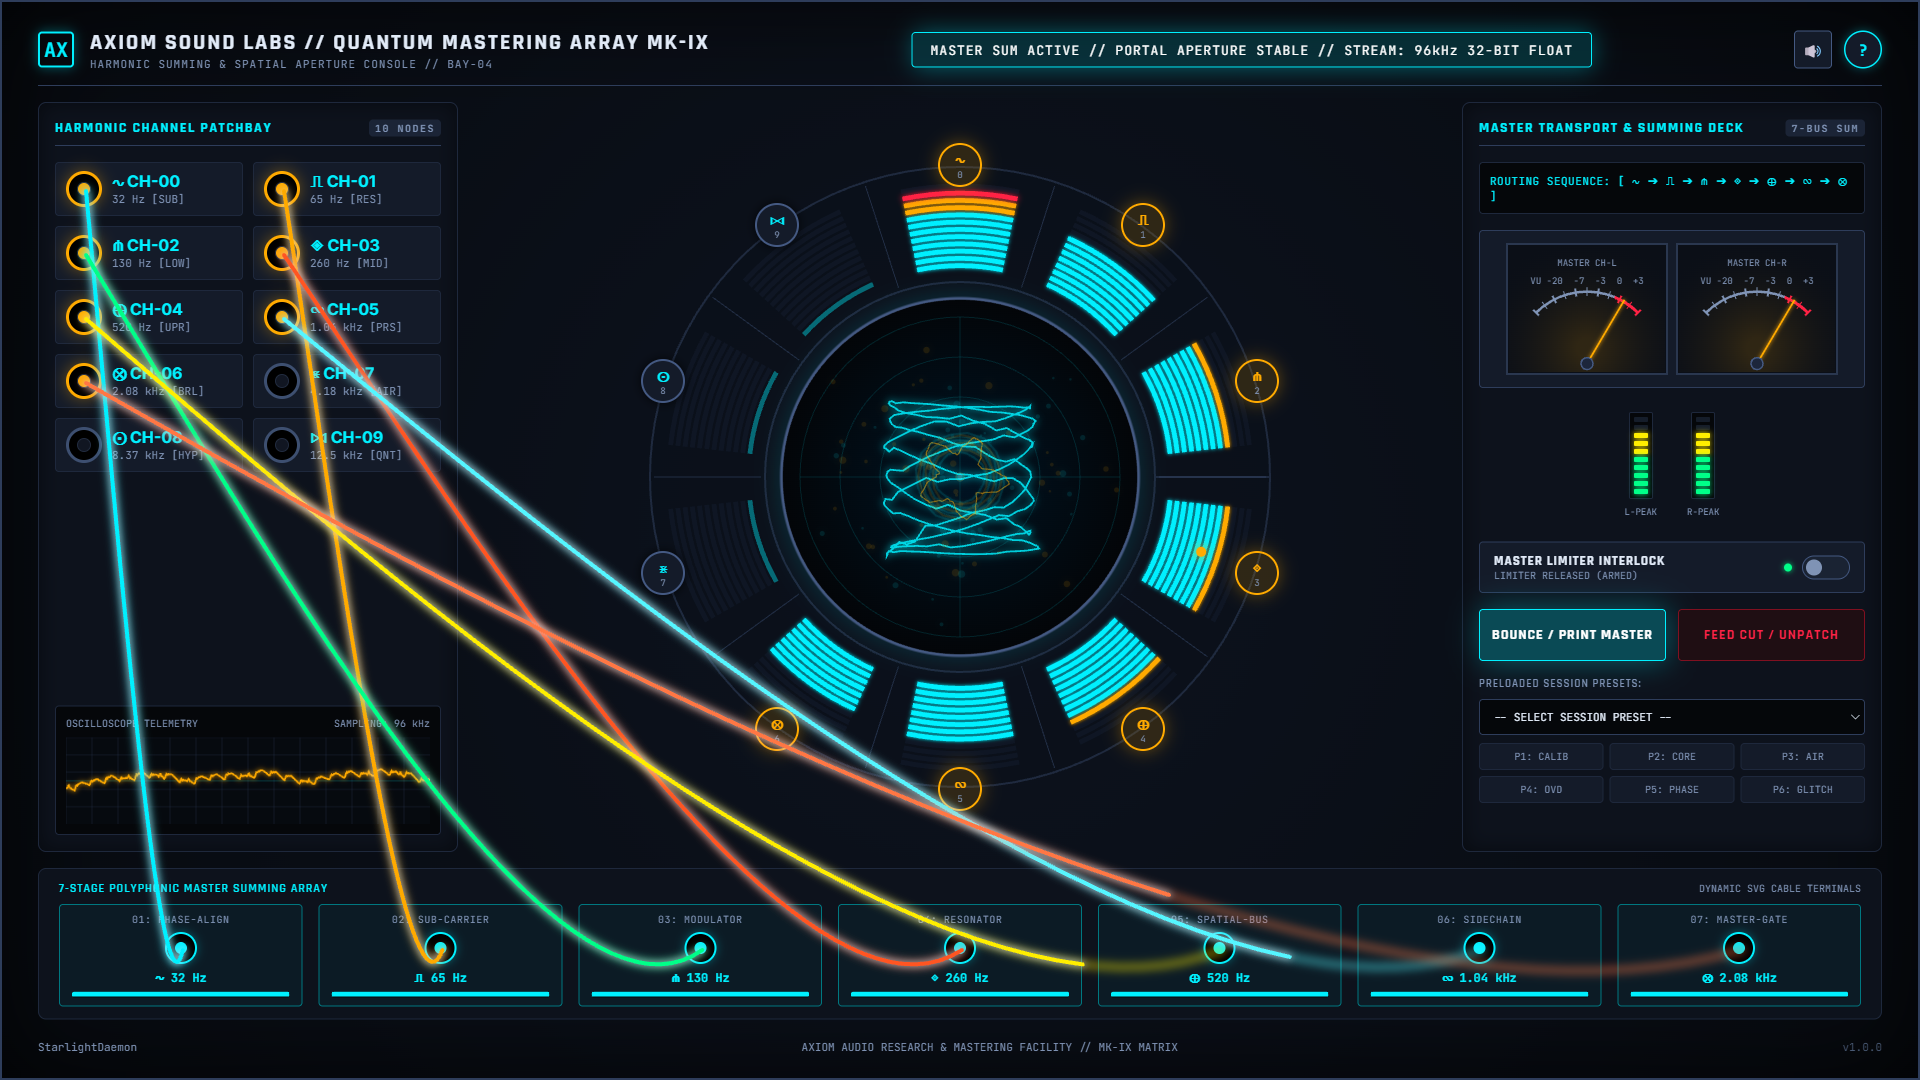
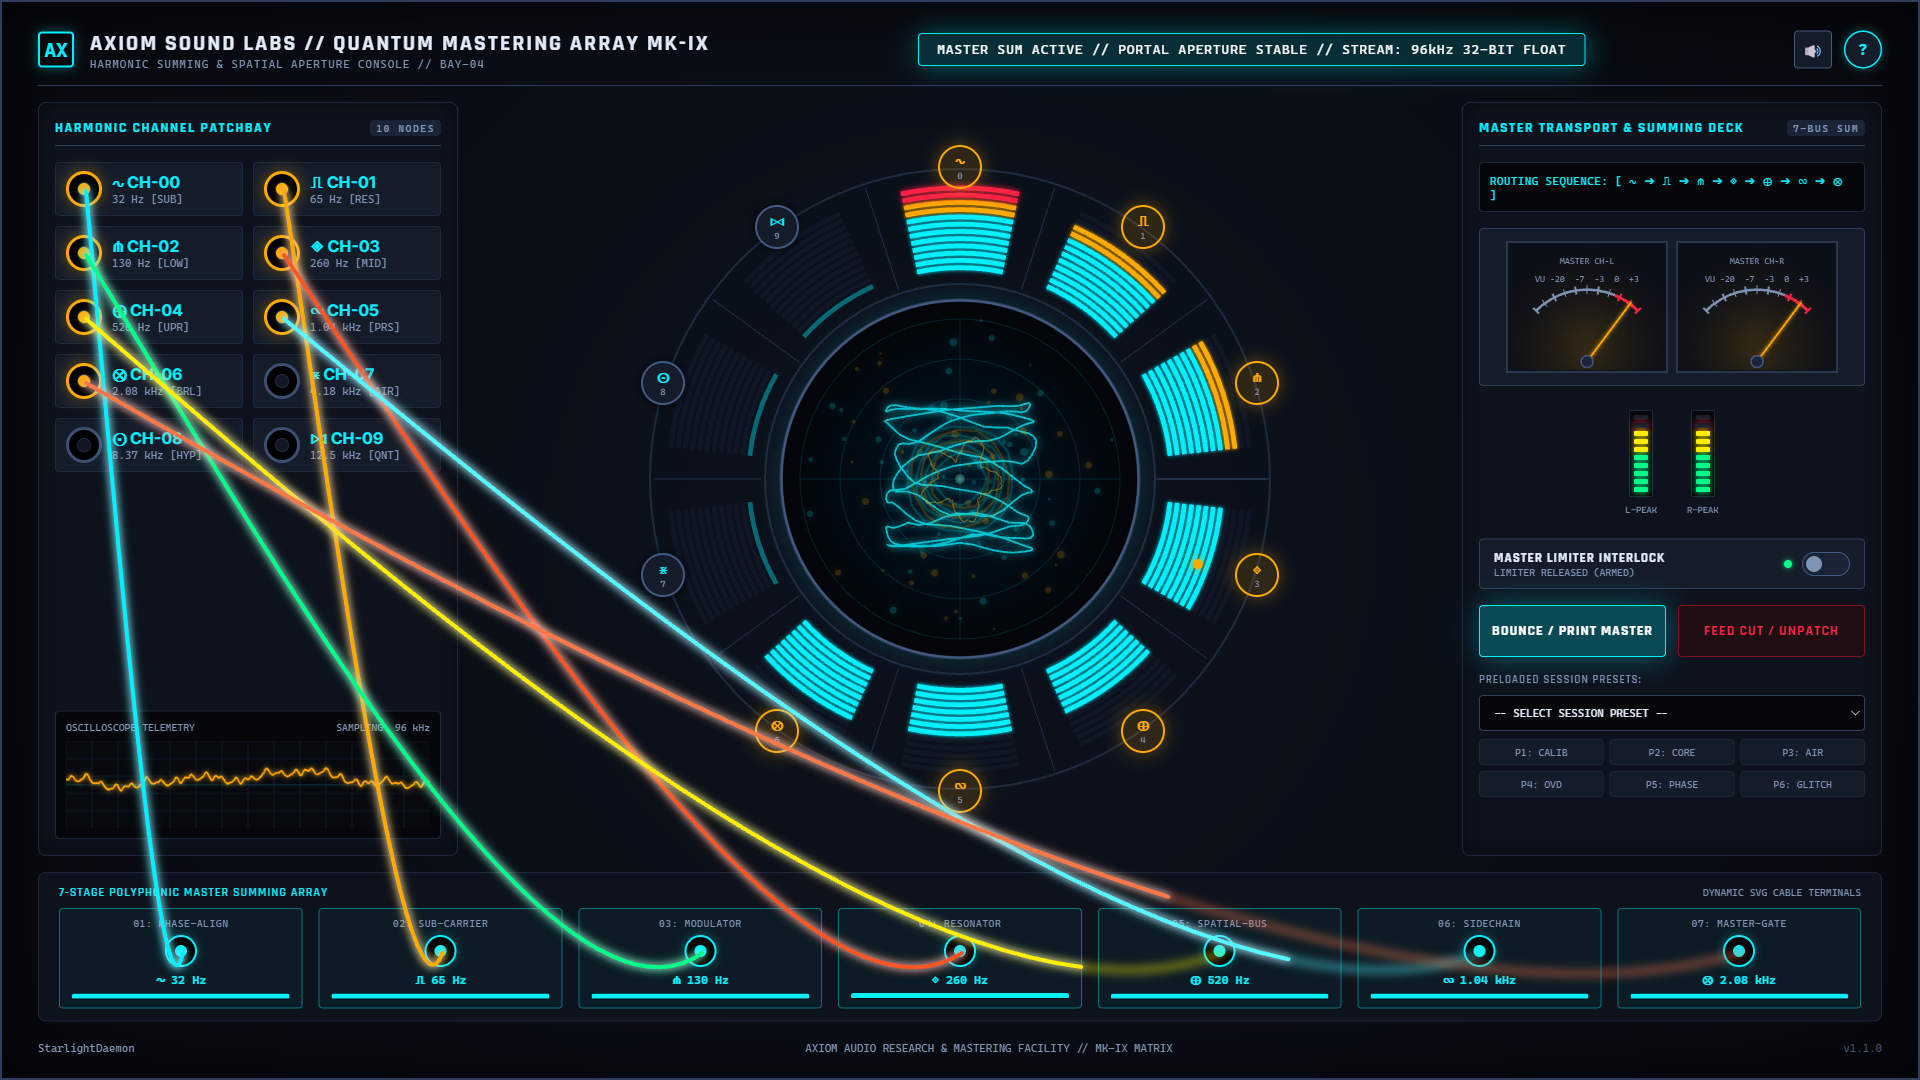
fix(stargate_mastering_suite): stage preset quick-dial through per-channel servo recall (v1.1.0)
loadPreset previously patched all 7 channels in one synchronous forEach
and set ARMED_READY immediately, skipping the per-channel relay audio,
cable-snap, and PATCHING progression manual patching uses. Presets now
re-seat each cable through toggleChannelPatch (the manual lock path) at
280ms per channel - a motorized patchbay total-recall at servo speed.
Recall arms without auto-printing; FEED CUT aborts mid-recall and
cancels pending servo steps. Tests: staged-recall sampling, two mid-
recall screenshots, mid-recall FEED CUT test, rAF-based deflake of the
portal-energy activation check, version assertions to v1.1.0.

diff --git a/stargate_mastering_suite/test_suite.js b/stargate_mastering_suite/test_suite.js
@@ -95,8 +95,8 @@ async function runTests() {
     if (cornerChecks.linkText !== 'StarlightDaemon' || cornerChecks.linkHref !== 'https://github.com/StarlightDaemon' || cornerChecks.linkRel !== 'noopener noreferrer') {
       throw new Error('FAIL: Attribution link metadata is incorrect!');
     }
-    if (cornerChecks.versionText !== 'v1.0.0') {
-      throw new Error('FAIL: Version string is not v1.0.0!');
+    if (cornerChecks.versionText !== 'v1.1.0') {
+      throw new Error('FAIL: Version string is not v1.1.0!');
     }
 
     // Test Operator Reference Modal
@@ -166,6 +166,9 @@ async function runTests() {
     console.log('\n--- Testing Master Print Activation ---');
     await hitTestClick('#btn-print-master');
     await new Promise(r => setTimeout(r, 500)); // allow portal energy to ramp
+    // Ensure at least two rendered frames so the energy ramp has provably started
+    // (headless rAF scheduling is otherwise nondeterministic within the wait)
+    await page.evaluate(() => new Promise(res => requestAnimationFrame(() => requestAnimationFrame(res))));
 
     const activeCheck = await page.evaluate(() => {
       return {
@@ -220,7 +223,7 @@ async function runTests() {
     // 6. Dial-Disengage-Redial Cycle 2 (via Quick Preset)
     console.log('\n--- Testing Dial-Disengage-Redial Cycle 2 (Preset P1) ---');
     await hitTestClick('.btn-quick-preset[data-preset="p1"]');
-    await new Promise(r => setTimeout(r, 100));
+    await new Promise(r => setTimeout(r, 2400)); // servo recall: 7 channels x 280ms
 
     const presetArmedCheck = await page.evaluate(() => {
       return {
@@ -243,9 +246,104 @@ async function runTests() {
     await new Promise(r => setTimeout(r, 200));
     console.log('PASS: Cycle 2 completed successfully.');
 
+    // 6.5 Staged Servo Recall Test (per-channel locks, no instant jump)
+    console.log('\n--- Testing Staged Servo Recall (preset patches one channel at a time) ---');
+    await hitTestClick('.btn-quick-preset[data-preset="p2"]');
+    const recallStart = Date.now();
+
+    const recallSamples = [];
+    for (const off of [420, 950, 1500]) {
+      const remaining = recallStart + off - Date.now();
+      if (remaining > 0) await new Promise(r => setTimeout(r, remaining));
+      const actualT = Date.now() - recallStart;
+      const s = await page.evaluate(() => ({
+        state: window.AxiomApp.state,
+        patched: window.AxiomApp.patchedChannels.length,
+        cables: window.AxiomBay.cables.length,
+        portalActive: window.AxiomVisuals.portalActive
+      }));
+      recallSamples.push(s);
+      console.log(`  t=${actualT}ms: state=${s.state}, patched=${s.patched}/7, cables=${s.cables}`);
+    }
+    const counts = recallSamples.map(s => s.patched);
+    const staged = counts.every((v, i) => (i === 0 || v > counts[i - 1])) &&
+                   recallSamples.every(s => s.state === 'PATCHING' && s.patched > 0 && s.patched < 7 && !s.portalActive);
+    if (!staged) {
+      throw new Error(`FAIL: Preset recall is not visibly staged: ${JSON.stringify(recallSamples)}`);
+    }
+
+    // Completion: ARMED_READY, no auto-fire even 1s after the final lock
+    const toEnd = recallStart + 3000 - Date.now();
+    if (toEnd > 0) await new Promise(r => setTimeout(r, toEnd));
+    const recallEnd = await page.evaluate(() => ({
+      state: window.AxiomApp.state,
+      patched: window.AxiomApp.patchedChannels.length,
+      portalActive: window.AxiomVisuals.portalActive
+    }));
+    console.log('Recall End Status:', recallEnd);
+    if (recallEnd.state !== 'ARMED_READY' || recallEnd.patched !== 7 || recallEnd.portalActive) {
+      throw new Error('FAIL: Staged recall did not land in ARMED_READY without auto-fire!');
+    }
+    await page.screenshot({ path: path.join(screenshotsDir, '06_recall_complete_armed.png') });
+    console.log('PASS: Servo recall is staged, lands ARMED_READY, no auto-fire.');
+
+    // In-progress screenshot evidence: screenshots on this canvas-heavy page take
+    // ~2s in headless, so capture ONE mid-recall frame per pass at two different
+    // offsets across two fresh recall passes (state is recorded just before capture).
+    const midShots = [];
+    for (const [off, label] of [[400, 'early'], [1000, 'late']]) {
+      await hitTestClick('#btn-feed-cut');
+      await new Promise(r => setTimeout(r, 150));
+      await hitTestClick('.btn-quick-preset[data-preset="p2"]');
+      const passStart = Date.now();
+      const rem = passStart + off - Date.now();
+      if (rem > 0) await new Promise(r => setTimeout(r, rem));
+      const stateAtShot = await page.evaluate(() => ({
+        state: window.AxiomApp.state,
+        patched: window.AxiomApp.patchedChannels.length
+      }));
+      await page.screenshot({ path: path.join(screenshotsDir, `06_recall_progress_${label}.png`) });
+      midShots.push(stateAtShot);
+      console.log(`  Mid-recall screenshot (${label}, ~t=${off}ms): state=${stateAtShot.state}, patched=${stateAtShot.patched}/7`);
+      // let this pass finish before the next
+      const settle = passStart + 3000 - Date.now();
+      if (settle > 0) await new Promise(r => setTimeout(r, settle));
+    }
+    if (!(midShots[0].patched > 0 && midShots[0].patched < 7 && midShots[0].state === 'PATCHING' &&
+          midShots[1].patched > midShots[0].patched && midShots[1].patched < 7 && midShots[1].state === 'PATCHING')) {
+      throw new Error(`FAIL: Mid-recall screenshots do not show distinct in-progress states: ${JSON.stringify(midShots)}`);
+    }
+    console.log('PASS: Two distinct in-progress recall states captured on screenshot.');
+
+    // 6.6 Mid-Recall Disengage Test (FEED CUT during servo recall)
+    console.log('\n--- Testing FEED CUT during servo recall ---');
+    await hitTestClick('#btn-feed-cut');
+    await new Promise(r => setTimeout(r, 100));
+    await hitTestClick('.btn-quick-preset[data-preset="p3"]');
+    await new Promise(r => setTimeout(r, 700)); // ~2 channels seated
+    const midRecall = await page.evaluate(() => ({ state: window.AxiomApp.state, patched: window.AxiomApp.patchedChannels.length }));
+    console.log('Mid-recall state before abort:', midRecall);
+    if (midRecall.state !== 'PATCHING' || midRecall.patched === 0 || midRecall.patched >= 7) {
+      throw new Error(`FAIL: Unexpected mid-recall state: ${JSON.stringify(midRecall)}`);
+    }
+    await hitTestClick('#btn-feed-cut');
+    await new Promise(r => setTimeout(r, 1900)); // past when remaining servo steps would have fired
+    const afterAbort = await page.evaluate(() => ({
+      state: window.AxiomApp.state,
+      patched: window.AxiomApp.patchedChannels.length,
+      cables: window.AxiomBay.cables.length
+    }));
+    console.log('After mid-recall abort (+1.9s):', afterAbort);
+    if (afterAbort.state !== 'IDLE_STANDBY' || afterAbort.patched !== 0 || afterAbort.cables !== 0) {
+      throw new Error('FAIL: FEED CUT during recall left orphaned servo steps or cables!');
+    }
+    await page.screenshot({ path: path.join(screenshotsDir, '06_mid_recall_feedcut.png') });
+    console.log('PASS: FEED CUT aborts an in-flight recall cleanly.');
+
     // 7. Test Tier 2 Preset (Experimental P4)
     console.log('\n--- Testing Tier 2 Preset (P4: Overdriven) ---');
     await hitTestClick('.btn-quick-preset[data-preset="p4"]');
+    await new Promise(r => setTimeout(r, 2400)); // wait for servo recall to arm
     await hitTestClick('#btn-print-master');
     await new Promise(r => setTimeout(r, 200));
     const tier2Active = await page.evaluate(() => window.AxiomApp.state === 'MASTER_SUMMING_ACTIVE');

diff --git a/stargate_mastering_suite/js/app.js b/stargate_mastering_suite/js/app.js
@@ -21,6 +21,9 @@ class AxiomApp {
     // Safety Limiter Interlock - MUST DEFAULT TO RELEASED (false)
     this.limiterEngaged = false;
 
+    // Pending servo-recall timers for an in-flight preset patch sequence
+    this.presetRecallTimers = [];
+
     // Presets (2 distinct tiers, 6 total)
     this.presets = [
       // Tier 1: Calibrated Broadcast Stems (Clean Mastered Arrays)
@@ -230,27 +233,31 @@ class AxiomApp {
     this.updateUI();
   }
 
+  /**
+   * SERVO PATCHBAY RECALL: presets replay a stored routing snapshot through
+   * the motorized patchbay — each cable is re-seated by the same per-channel
+   * lock path as a manual patch (toggleChannelPatch: relay audio, SVG cable,
+   * state machine), at servo speed rather than hand speed. The 7th cable
+   * leaves the console in ARMED_READY; it NEVER auto-prints.
+   */
   loadPreset(presetId) {
     const preset = this.presets.find(p => p.id === presetId);
     if (!preset) return;
 
-    this.disengageMasterFeed();
+    this.disengageMasterFeed(); // also cancels any in-flight recall
 
-    // Patch channels in sequence
+    const RECALL_STEP_MS = 280; // servo speed: faster than hands, one jack at a time
     preset.channels.forEach((chIdx, i) => {
-      this.patchedChannels.push(chIdx);
-      if (window.AxiomBay) {
-        window.AxiomBay.addCable(chIdx, i);
-      }
+      const timer = setTimeout(() => {
+        this.toggleChannelPatch(chIdx);
+      }, RECALL_STEP_MS * (i + 1));
+      this.presetRecallTimers.push(timer);
     });
+  }
 
-    if (window.AxiomAudio) {
-      window.AxiomAudio.playChannelLock(preset.channels[0], 0);
-    }
-
-    // 7/7 channels patched -> Leaves system in ARMED_READY (NO AUTO-FIRE)
-    this.state = ConsoleState.ARMED_READY;
-    this.updateUI();
+  cancelPresetRecall() {
+    this.presetRecallTimers.forEach(t => clearTimeout(t));
+    this.presetRecallTimers = [];
   }
 
   engageMasterPrint() {
@@ -284,7 +291,8 @@ class AxiomApp {
   }
 
   disengageMasterFeed() {
-    // Full disengage & reset
+    // Full disengage & reset — abort any in-flight preset servo recall first
+    this.cancelPresetRecall();
     this.state = ConsoleState.IDLE_STANDBY;
     this.patchedChannels = [];
 

diff --git a/stargate_mastering_suite/index.html b/stargate_mastering_suite/index.html
@@ -360,7 +360,7 @@
         <div class="footer-center-meta">
           AXIOM AUDIO RESEARCH & MASTERING FACILITY // MK-IX MATRIX
         </div>
-        <div class="footer-version">v1.0.0</div>
+        <div class="footer-version">v1.1.0</div>
       </div>
 
     </div>

diff --git a/stargate_mastering_suite/CHANGELOG.md b/stargate_mastering_suite/CHANGELOG.md
@@ -5,6 +5,19 @@ All notable changes to the Axiom Audio Research & Mastering Facility (Portal Dia
 The format is based on [Keep a Changelog](https://keepachangelog.com/en/1.0.0/),
 and this project adheres to [Semantic Versioning](https://semver.org/spec/v2.0.0.html).
 
+## [1.1.0] - 2026-08-15
+
+**Built by:** Claude Opus (auto-dial staging fix; original build by Gemini 3.7 Flash (High))
+
+### Fixed
+- **Quick-Dial Preset Instant-Jump Bug**: loading a preset previously patched all 7 channels in a single synchronous pass and snapped straight to `ARMED_READY`, bypassing the per-channel relay audio, SVG cable snap, and `PATCHING` state progression that manual patching uses.
+- **Servo Patchbay Recall**: presets now replay their stored routing snapshot through the exact same per-channel lock path as a manual patch (`toggleChannelPatch`), one cable every 280ms — in-universe, the MK-IX's motorized patchbay re-seats each cable at servo speed: faster than any engineer's hands, but still one jack at a time with full relay thud and cable-snap feedback per channel.
+- Recall lands in the identical `ARMED_READY` state as manual patching and **never auto-prints** (strict no-auto-fire guarantee preserved and re-verified).
+- `FEED CUT / MASTER UNPATCH` remains fully functional **during** a recall: cutting mid-sequence cancels all pending servo steps and returns cleanly to `IDLE_STANDBY` (new automated test).
+
+### Changed
+- Test rig: added staged-recall test with in-progress screenshot sampling and a mid-recall FEED CUT test; preset assertions re-timed for the ~2s servo recall; version badge assertions updated to v1.1.0.
+
 ## [1.0.0] - 2026-08-15
 
 **Built by:** Gemini 3.7 Flash (High)
